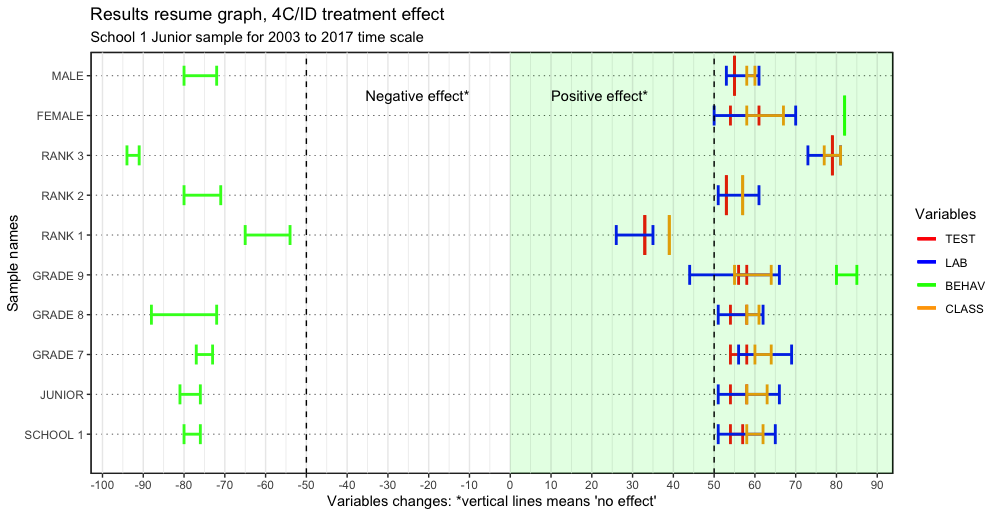
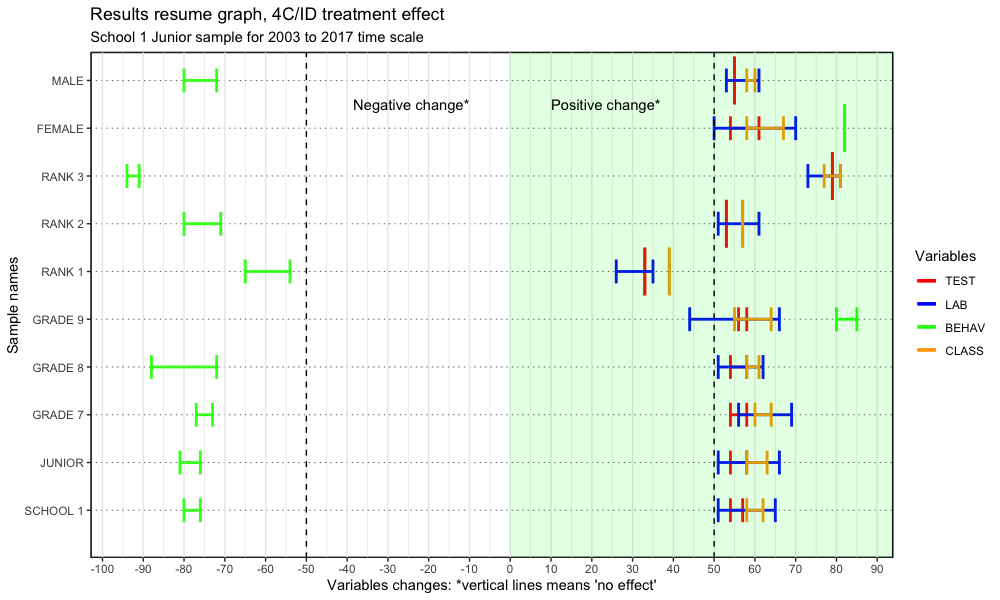
images

diff --git a/README.md b/README.md
@@ -87,13 +87,22 @@ Looking at figure 1 it's not clear an overall positive change but figure 3 shows
 
 [^5results]: complete results with sample obs., stats values and p-values are on the code files for now.
 
-Figure 2 and 3 shows a resume of the **results**, for all sample, in the time period 2003 to 2017. Figures 4 and 5 show the same results but for a more reliable sample: school one for the junior grade sample (school 1 JUNIOR) in the until 2014. More reliable, because it doesn't include the school effect identified in this work, it focus just on the analysis of the junior grade students only and doesn't include a negative pattern after 2016, that seems to be an independent pattern.
+Figure 2 and 3 shows a resume of the **results**, for the global sample, in the time period 2003 to 2017. Figures 4 and 5 show the same results but for a more reliable sample: school one for the junior grade sample (school 1 JUNIOR) in the until 2014. More reliable, because it doesn't include the school effect identified in this work, it focus just on the analysis of the junior grade students only and doesn't include a negative pattern after 2016, that seems to be an independent pattern.
 
 The y-axis, of the graph in figure 2, shows the sample names and the x-axis presents the median differences, for variables, TEST, LAB, BEHAV and CLASS. The left of the graph present the negative changes and on the right the positive ones: the horizontal lines means that there are no changes between the treatment and the control group. The differences presented are for the median of the variables change, distinguished by colors (see legend). Figure 3 is basically the same but focuses on the variable score change to see were was the bigger change.
 
-![Figure 2: 4C/ID group treatment effect for 2003 to 2017.](Images/RResults_allSample.png)
+![Figure 2: 4C/ID group treatment effect for 2003 to 2017.](Images/RResults_globalSamples.png)
 
 Figure 2: 4C/ID group treatment effect for 2003 to 2017.
+
+![Figure 3: 4C/ID group treatment effect for 2003 to 2017.](Images/RResults_globalSamples_VC.png)
+
+Figure 3: 4C/ID group treatment effect for 2003 to 2017.
+
+
+![Figure 4: 4C/ID group treatment effect for 2003 to 2017.](Images/RResults_allSample.png)
+
+Figure 4: 4C/ID group treatment effect for 2003 to 2017.
 
 Clearly, figure 2 shows that there is a overall **positive change** for the LAB variable while a **negative change** for BEHAV (except for GRADE 9, RANK 3 and FEMALE samples). Similarly for the variable TEST, except for JUNIOR HIGH,GRADE 7 and 8, RANK 1 and 3, and FEMALE, where no changes were detected. Variable CLASS shows a mixture: in the samples JUNIOR and FEMALE there is a positive change, while negative for RANK 2 and MALE and no change for the other samples.
 
@@ -101,21 +110,21 @@ Figure 3 presents the score change between the two groups, treatment and control
 
 Samples groups that present more negative changes are MALE and RANK 2. On the other, FEMALE and RANK 3 show positive change.
 
-![Figure 3: 4C/ID group treatment effect variables change for all period of time: 2003 to 2017.](Images/RResults_allSample_VC.png)
+![Figure 4: 4C/ID group treatment effect variables change for all period of time: 2003 to 2017.](Images/RResults_allSample_VC.png)
 
-Figure 3: 4C/ID group treatment effect variables change for all period of time: 2003 to 2017.
+Figure 4: 4C/ID group treatment effect variables change for all period of time: 2003 to 2017.
 
 Figures 4 and 5 show a more favorable positive change from treatment to control group with the RANK 1 sample with less positive change. BEHAV continues to show negative change for GRADE 8, RANK 1 and MALE.
 
-![Figure 4: Results resume graph, 4C/ID treatment effect for JUNIOR grade sample of school 1 until 2014.](Images/RResults_schoolJunior_2014.png)
+![Figure 5: Results resume graph, 4C/ID treatment effect for JUNIOR grade sample of school 1 until 2014.](Images/RResults_schoolJunior_2014.png)
 
-Figure 4: Results resume graph, 4C/ID treatment effect for JUNIOR grade sample of school 1 until 2014.
+Figure 5: Results resume graph, 4C/ID treatment effect for JUNIOR grade sample of school 1 until 2014.
 
 Figure 5 reinforce the results presented above, less favorable to sample groups GRADE 8, RANK 1 and MALE, but still, only positive changes for the entire school 1 sample and grade 9. LAB variable its what have more positive change followed by CLASS and TEST. 
 
-![Figure 5: Results resume variables change graph, 4C/ID treatment effect for JUNIOR grade sample of school 1 until 2014.](Images/RResults_schoolJunior_2014_VC.png)
+![Figure 6: Results resume variables change graph, 4C/ID treatment effect for JUNIOR grade sample of school 1 until 2014.](Images/RResults_schoolJunior_2014_VC.png)
 
-Figure 5: Results resume variables change graph, 4C/ID treatment effect for JUNIOR grade sample of school 1 until 2014.
+Figure 6: Results resume variables change graph, 4C/ID treatment effect for JUNIOR grade sample of school 1 until 2014.
 
 From the point of view of qualitative results, whats more important can be resumed on four points:
 
